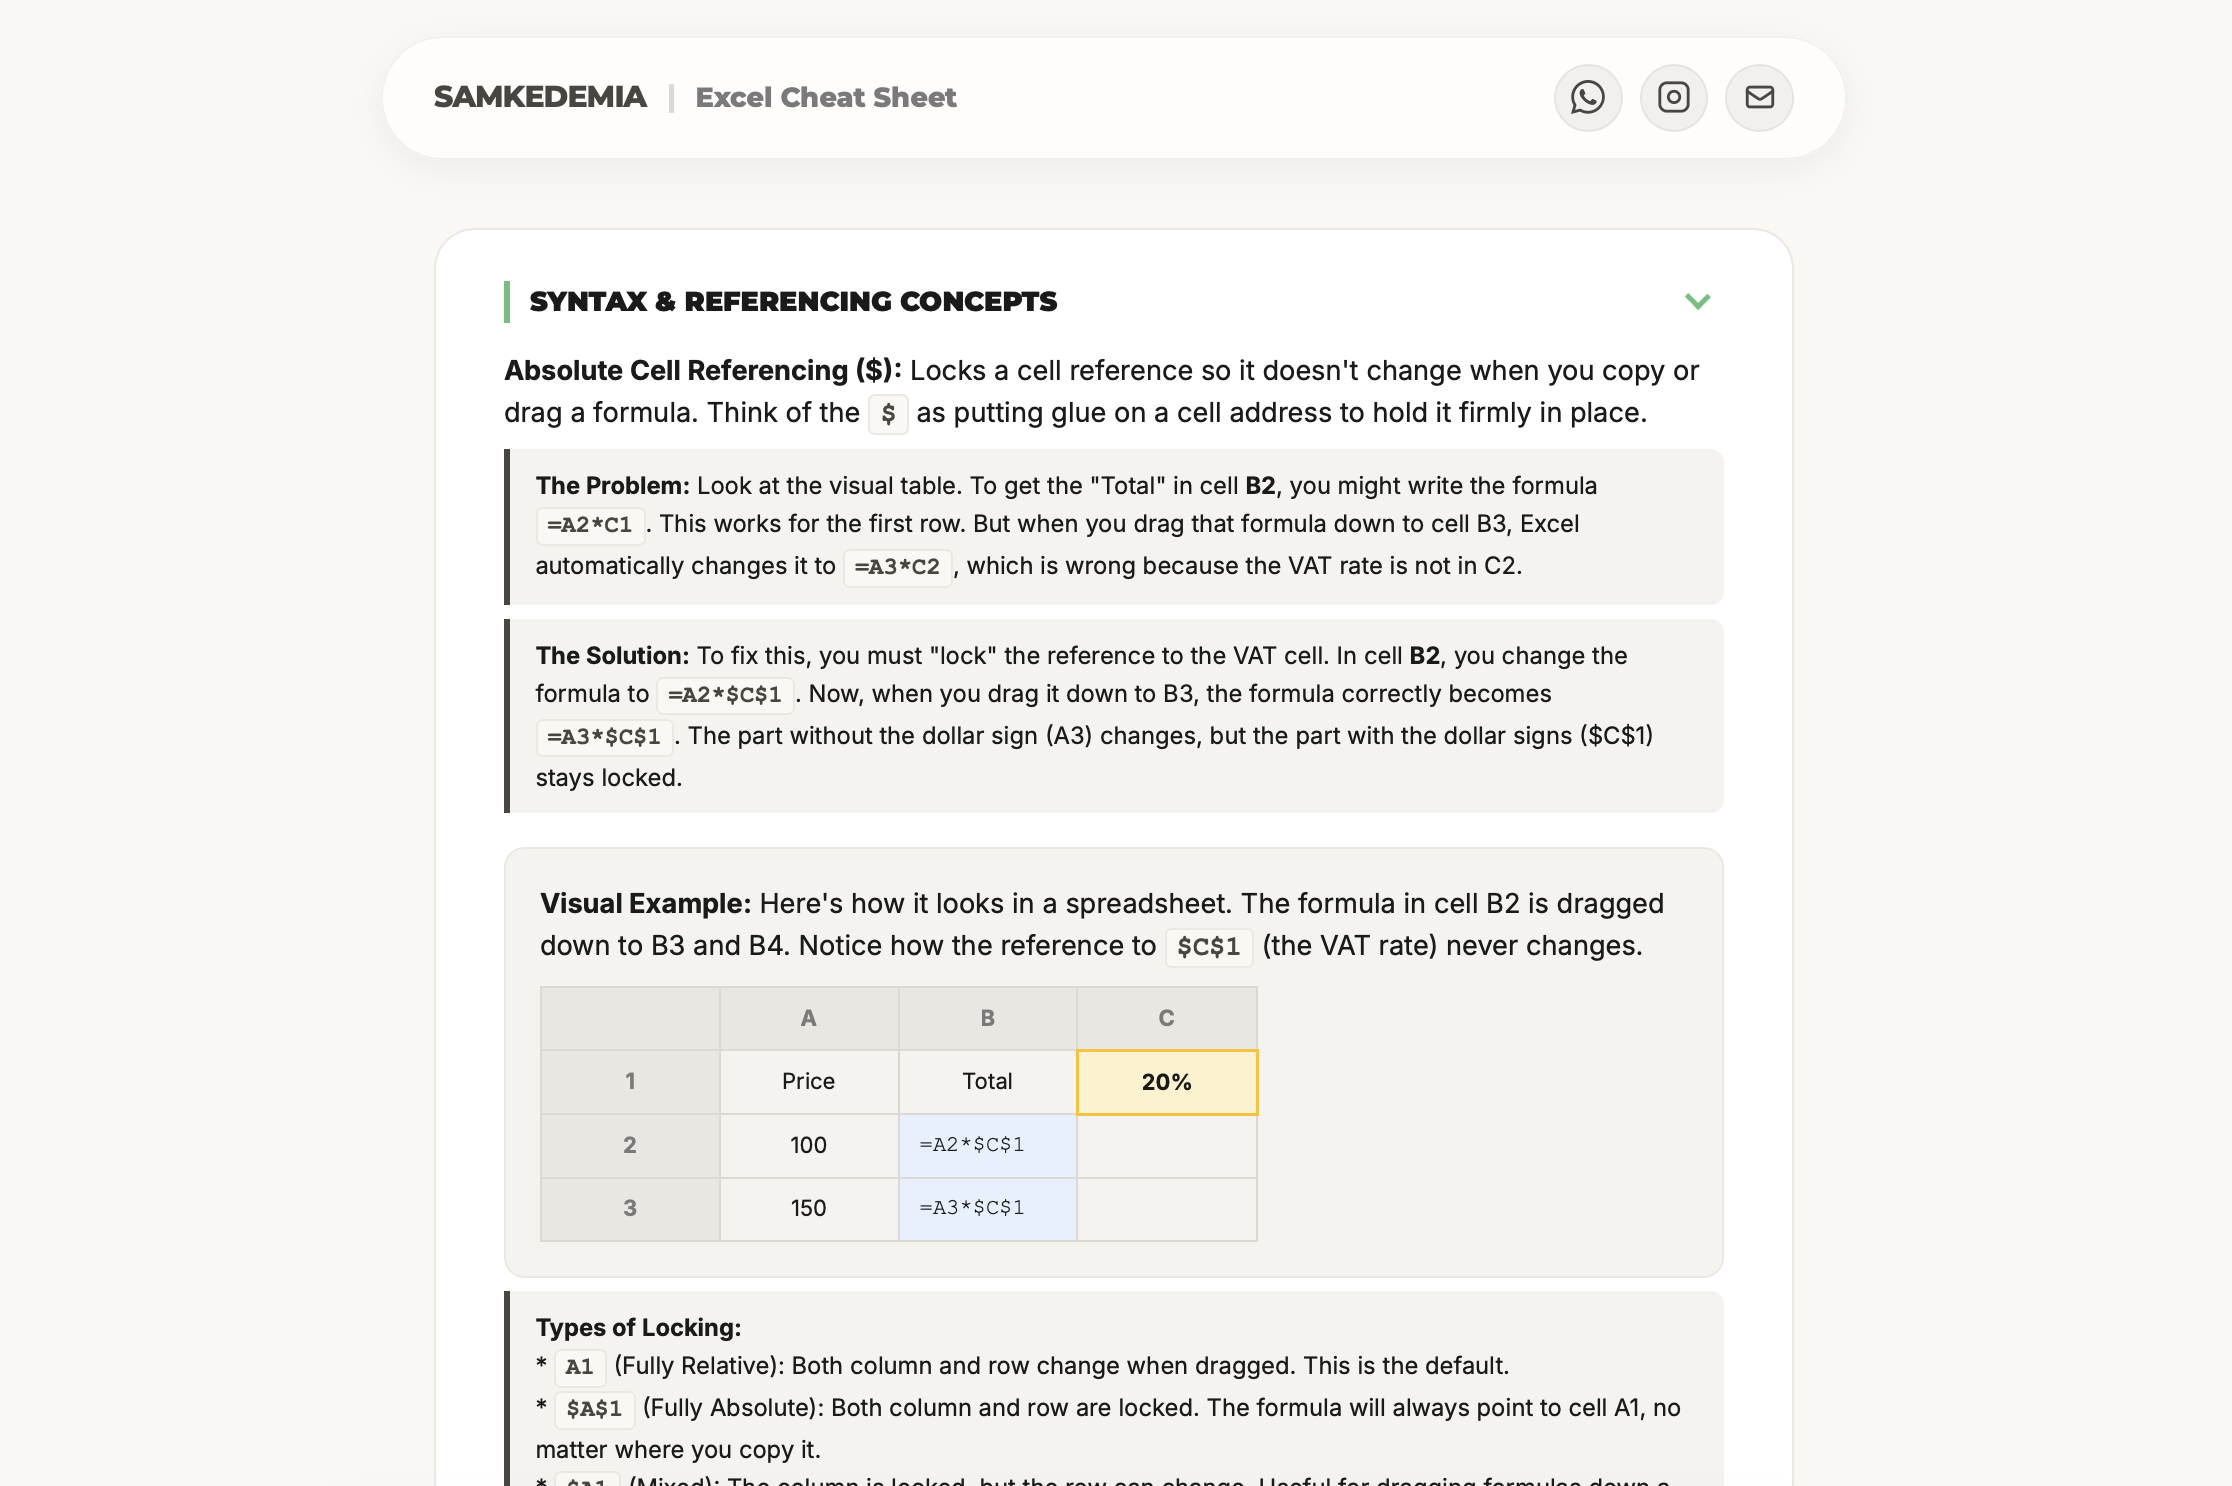
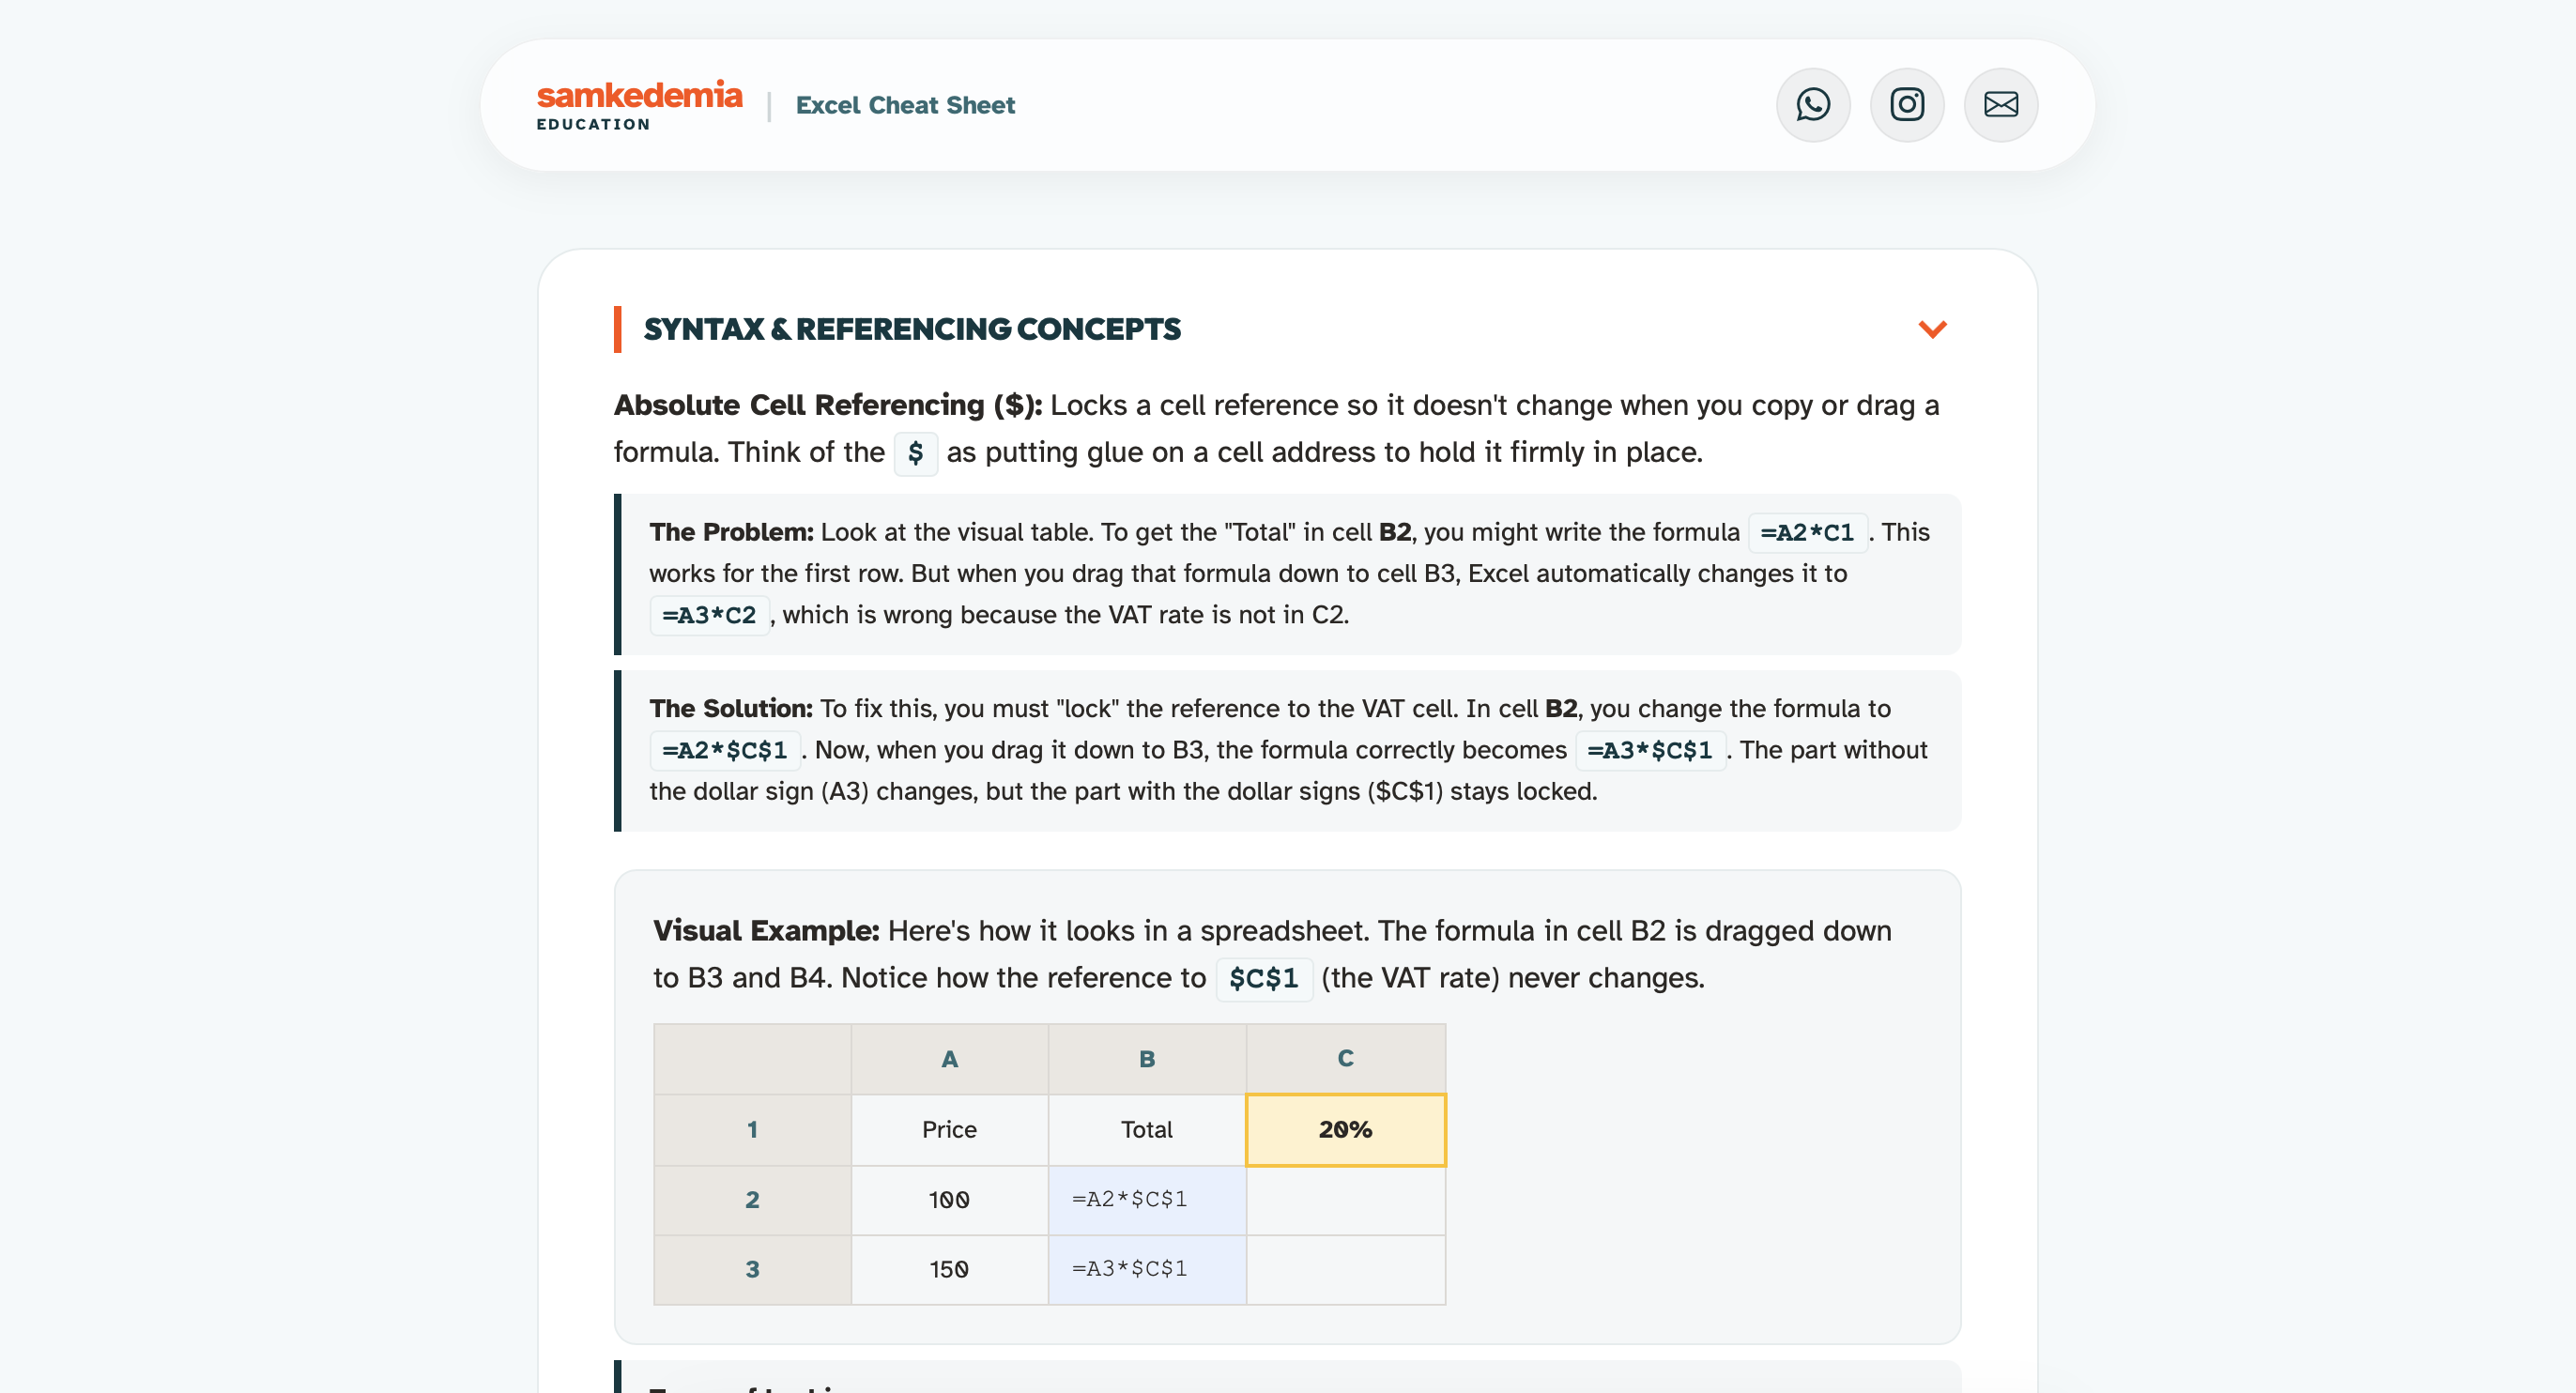
Fix Resources Samples

diff --git a/index.html b/index.html
@@ -3235,6 +3235,11 @@
                     background: var(--accent-orange);
                     border-color: var(--accent-orange);
                 }
+                .resource-sample-btn:hover {
+                    background: var(--accent-orange);
+                    border-color: var(--accent-orange);
+                    color: white;
+                }
                 @media (max-width: 768px) {
                     .resource-scroll-wrap {
                         width: calc(100% + 32px);
@@ -3293,7 +3298,7 @@
                                 <h4>Math A</h4>
                             </div>
                             <div class="resource-card-footer">
-                                <a href="samplebooks/mathA-SolutionBook-Sample.pdf" target="_blank" rel="noopener" class="resource-go-btn">Sample <i class="bi bi-box-arrow-up-right"></i></a>
+                                <a href="samplebooks/mathA-SolutionBook-Sample.pdf" target="_blank" rel="noopener" class="resource-go-btn resource-sample-btn">Sample <i class="bi bi-box-arrow-up-right"></i></a>
                                 <a href="#contact" class="resource-go-btn resource-buy-btn">Buy Now →</a>
                             </div>
                         </div>
@@ -3308,7 +3313,7 @@
                                 <h4>Math B</h4>
                             </div>
                             <div class="resource-card-footer">
-                                <a href="samplebooks/mathB-SolutionBook-Sample.pdf" target="_blank" rel="noopener" class="resource-go-btn">Sample <i class="bi bi-box-arrow-up-right"></i></a>
+                                <a href="samplebooks/mathB-SolutionBook-Sample.pdf" target="_blank" rel="noopener" class="resource-go-btn resource-sample-btn">Sample <i class="bi bi-box-arrow-up-right"></i></a>
                                 <a href="#contact" class="resource-go-btn resource-buy-btn">Buy Now →</a>
                             </div>
                         </div>
@@ -3323,7 +3328,7 @@
                                 <h4>Descriptive Stats</h4>
                             </div>
                             <div class="resource-card-footer">
-                                <a href="samplebooks/descriptiveStats-SolutionBook-Sample.pdf" target="_blank" rel="noopener" class="resource-go-btn">Sample <i class="bi bi-box-arrow-up-right"></i></a>
+                                <a href="samplebooks/stats1-SolutionBook-Sample.pdf" target="_blank" rel="noopener" class="resource-go-btn resource-sample-btn">Sample <i class="bi bi-box-arrow-up-right"></i></a>
                                 <a href="#contact" class="resource-go-btn resource-buy-btn">Buy Now →</a>
                             </div>
                         </div>
@@ -3338,7 +3343,7 @@
                                 <h4>Inferential Stats</h4>
                             </div>
                             <div class="resource-card-footer">
-                                <a href="samplebooks/inferentialStats-SolutionBook-Sample.pdf" target="_blank" rel="noopener" class="resource-go-btn">Sample <i class="bi bi-box-arrow-up-right"></i></a>
+                                <a href="samplebooks/stats2-SolutionBook-Sample.pdf" target="_blank" rel="noopener" class="resource-go-btn resource-sample-btn">Sample <i class="bi bi-box-arrow-up-right"></i></a>
                                 <a href="#contact" class="resource-go-btn resource-buy-btn">Buy Now →</a>
                             </div>
                         </div>
@@ -3353,7 +3358,7 @@
                                 <h4>IMOR</h4>
                             </div>
                             <div class="resource-card-footer">
-                                <a href="samplebooks/IMOR-SolutionBook-Sample.pdf" target="_blank" rel="noopener" class="resource-go-btn">Sample <i class="bi bi-box-arrow-up-right"></i></a>
+                                <a href="samplebooks/imor-SolutionBook-Sample.pdf" target="_blank" rel="noopener" class="resource-go-btn resource-sample-btn">Sample <i class="bi bi-box-arrow-up-right"></i></a>
                                 <a href="#contact" class="resource-go-btn resource-buy-btn">Buy Now →</a>
                             </div>
                         </div>